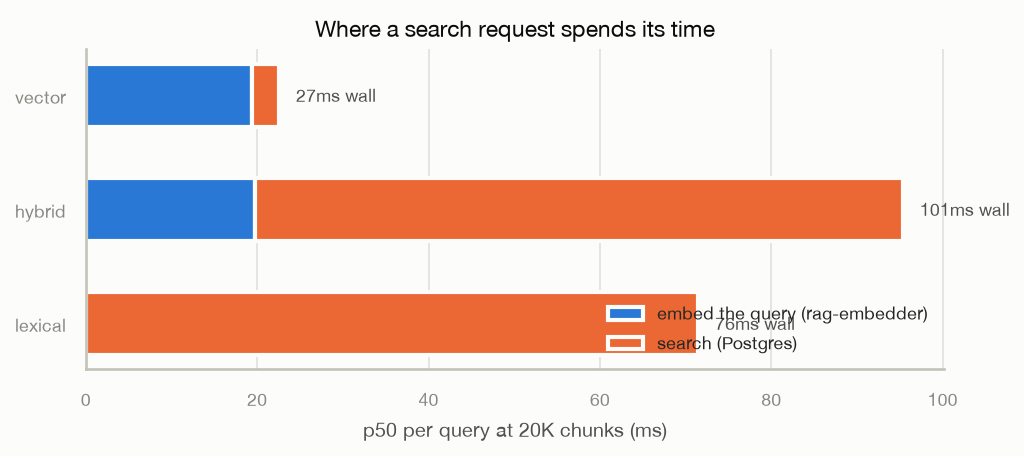
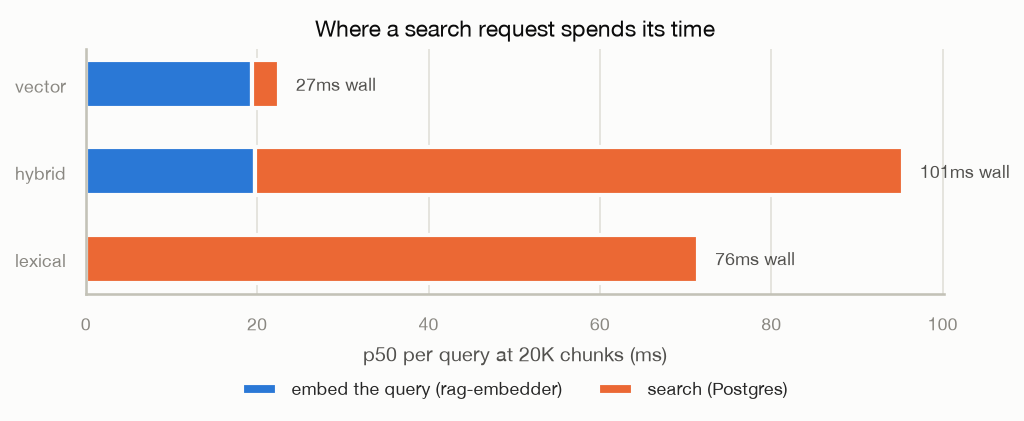
fig: search_split legend below axes

diff --git a/scripts/plot_search.py b/scripts/plot_search.py
@@ -85,7 +85,7 @@ def fig_split(data, out: Path) -> None:
     ax.set_yticks(list(y), modes)
     ax.set_xlabel("p50 per query at 20K chunks (ms)")
     ax.set_title("Where a search request spends its time")
-    ax.legend(loc="lower right")
+    ax.legend(loc="upper center", ncols=2, bbox_to_anchor=(0.5, -0.28))
     ax.grid(axis="y", visible=False)
     save(fig, out, "search_split.png")
 
